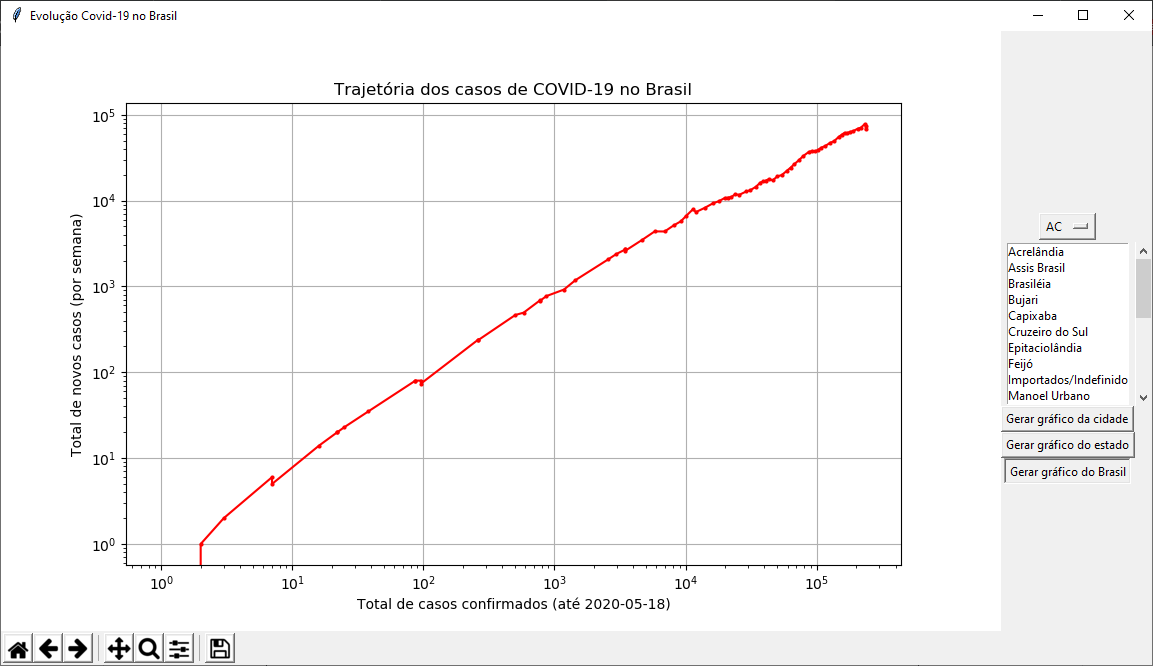
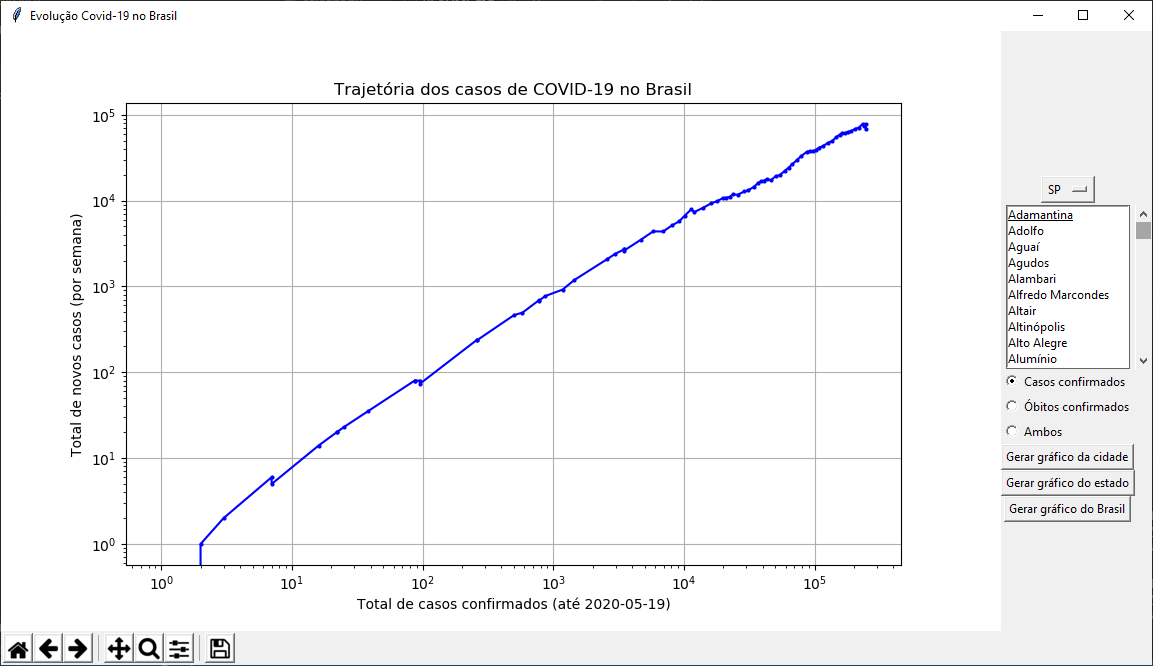
plotagem de óbitos adicionada

diff --git a/covidbr.py b/covidbr.py
@@ -46,6 +46,18 @@ class App:
         self.cidadesListbox.config(yscrollcommand=self.scrollbar.set)
         self.scrollbar.config(command=self.cidadesListbox.yview)   
 
+        self.optVar = tkinter.IntVar()
+        self.optVar.set(1)
+        self.optCasos = tkinter.Radiobutton(self.frame2, text='Casos confirmados', 
+                variable=self.optVar, value=1)
+        self.optCasos.grid(row=27, column=1, sticky=tkinter.W)
+        self.optObitos = tkinter.Radiobutton(self.frame2, text='Óbitos confirmados',
+                variable=self.optVar, value=2)        
+        self.optObitos.grid(row=28, column=1, sticky=tkinter.W)
+        self.optAmbos = tkinter.Radiobutton(self.frame2, text='Ambos',
+                variable=self.optVar, value=3)
+        self.optAmbos.grid(row=29, column=1, sticky=tkinter.W)
+
         self.botaoC = tkinter.Button(self.frame2, text = 'Gerar gráfico da cidade',
                 command = lambda: self.desenhaGrafico())
         self.botaoC.grid(row=30, column=1)
@@ -68,16 +80,30 @@ class App:
 
         self.janela.mainloop()
     
-    def desenhaGrafico(self, porEstado=False, porPais=False):
+    def desenhaGrafico(self, porEstado=False, porPais=False, limpa=True):
+        if self.optVar.get() == 1:
+            opcao = 'casos'
+            cor = 'blue'
+        elif self.optVar.get() == 2:
+            opcao = 'obitos'
+            cor = 'red'
+        else:
+            self.optVar.set(1)
+            self.desenhaGrafico(porEstado, porPais, True)
+            self.optVar.set(2)
+            self.desenhaGrafico(porEstado, porPais, False)
+            self.optVar.set(3)
+            return
+
         if porPais:
             casosBrasil = {}
             for e in self.dados:
                 for c in self.dados[e]:
                     for i in range(len(self.dados[e][c]['datas'])):
                         if self.dados[e][c]['datas'][i] in casosBrasil:
-                            casosBrasil[self.dados[e][c]['datas'][i]] += self.dados[e][c]['casos'][i]
+                            casosBrasil[self.dados[e][c]['datas'][i]] += self.dados[e][c][opcao][i]
                         else:
-                            casosBrasil[self.dados[e][c]['datas'][i]] = self.dados[e][c]['casos'][i]
+                            casosBrasil[self.dados[e][c]['datas'][i]] = self.dados[e][c][opcao][i]
 
             tdatas = list(casosBrasil.keys())
             tdatas.sort()
@@ -91,9 +117,9 @@ class App:
             for c in self.dados[self.estado.get()]:
                 for i in range(len(self.dados[self.estado.get()][c]['datas'])):
                     if self.dados[self.estado.get()][c]['datas'][i] in casosEstado:
-                        casosEstado[self.dados[self.estado.get()][c]['datas'][i]] += self.dados[self.estado.get()][c]['casos'][i]
+                        casosEstado[self.dados[self.estado.get()][c]['datas'][i]] += self.dados[self.estado.get()][c][opcao][i]
                     else:
-                        casosEstado[self.dados[self.estado.get()][c]['datas'][i]] = self.dados[self.estado.get()][c]['casos'][i]
+                        casosEstado[self.dados[self.estado.get()][c]['datas'][i]] = self.dados[self.estado.get()][c][opcao][i]
        
             tdatas = list(casosEstado.keys())
             tdatas.sort()
@@ -104,10 +130,13 @@ class App:
             
         else:
             tdatas = copy.deepcopy(self.dados[self.estado.get()][self.cidadesListbox.get(self.cidadesListbox.curselection())]['datas'])
-            tcasos = copy.deepcopy(self.dados[self.estado.get()][self.cidadesListbox.get(self.cidadesListbox.curselection())]['casos'])
+            tcasos = copy.deepcopy(self.dados[self.estado.get()][self.cidadesListbox.get(self.cidadesListbox.curselection())][opcao])
             tdatas.reverse()
             tcasos.reverse()
         tnovos = [0]
+
+        if opcao == 'obitos':
+            opcao = 'óbitos'
 
         if len(tcasos) > 2:
         # é possível estar faltando data... neste caso, a data é = 0
@@ -133,21 +162,25 @@ class App:
                 n += tnovos[i-j]
             novossem.append(n)
 
-        self.fig.clf()
-        ax = self.fig.add_subplot(111)
-        ax.set_xlabel('Total de casos confirmados (até {})'.format(tdatas[-1]))
-        ax.set_ylabel('Total de novos casos (por semana)')
-        if porPais:
-            ax.set_title('Trajetória dos casos de COVID-19 no Brasil')
-        
-        elif porEstado:
-            ax.set_title('Trajetória dos casos de COVID-19 em ' + self.estado.get())
+        if limpa:
+            self.fig.clf()
         else:
-            ax.set_title('Trajetória dos casos de COVID-19 em ' + self.cidadesListbox.get(self.cidadesListbox.curselection()))
+            opcao = 'casos/óbitos'
+        ax = self.fig.add_subplot(111)
+        ax.set_xlabel('Total de {} confirmados (até {})'.format(opcao, tdatas[-1]))
+        ax.set_ylabel('Total de novos {} (por semana)'.format(opcao))
+        if porPais:
+            ax.set_title('Trajetória dos {} de COVID-19 no Brasil'.format(opcao))        
+        elif porEstado:
+            ax.set_title('Trajetória dos {} de COVID-19 em '.format(opcao) + self.estado.get())
+        else:
+            ax.set_title('Trajetória dos {} de COVID-19 em '.format(opcao) + self.cidadesListbox.get(self.cidadesListbox.curselection()))
         ax.set_xscale('log')
         ax.set_yscale('log')
         ax.grid(True)
-        ax.plot([0]+tcasos, [0]+novossem, 'ro-', markersize=2)
+        ax.plot([0]+tcasos, [0]+novossem, 'o-', color=cor, markersize=2)
+        if not limpa:
+            self.fig.legend(labels=['casos', 'óbitos'])
         self.canvas.draw()
 
     def baixaDados(self):
@@ -170,11 +203,13 @@ class App:
                         if cidade not in self.dados[estado]:
                             self.dados[estado][cidade] = {
                                 'casos':[],
-                                'datas':[]
+                                'datas':[],
+                                'obitos':[]
                                 }
         
                         self.dados[estado][cidade]['casos'].append(ocorrencia['confirmed'])
                         self.dados[estado][cidade]['datas'].append(ocorrencia['date'])
+                        self.dados[estado][cidade]['obitos'].append(ocorrencia['deaths'])
                         
 
                 if req['next'] == None:

diff --git a/README.md b/README.md
@@ -10,11 +10,11 @@ Mas após encontrar os dados excelentes do https://brasil.io/home/ resolvi expan
 
 Durante o período de crescimento exponencial, o gráfico aproxima-se bastante de uma reta crescente. Conforme a doença desacelera, mesmo que seja uma tendência sutil de achatamento na curva exponencial original, este gráfico vai mostrar a reta curvando-se para a horizontal, e quando os casos começarem a cair, a reta tornará-se decrescente. Vale à pena ver os gráficos de alguns países diferentes no site original para entender melhor o gráfico. Também recomendo muito assistir o vídeo do canal minutephysics a respeito (https://www.youtube.com/watch?v=54XLXg4fYsc).
 
-<p align="center"><img src="brasil.png"><br>Gráfico agrupando dados do Brasil todo<br><br></p>
+<p align="center"><img src="brasil.png"><br>Gráfico agrupando casos do Brasil todo<br><br></p>
 
-<p align="center"><img src="sp.png"><br>Gráfico agrupando dados do Estado de São Paulo<br><br></p>
+<p align="center"><img src="sp.png"><br>Gráfico agrupando óbitos do Estado de São Paulo<br><br></p>
 
-<p align="center"><img src="saopaulo.png"><br>Gráfico da cidade de São Paulo<br><br></p>
+<p align="center"><img src="saopaulo.png"><br>Gráfico dos casos e óbitos da cidade de São Paulo<br><br></p>
 
 É importante notar que temos algumas limitações:
 
